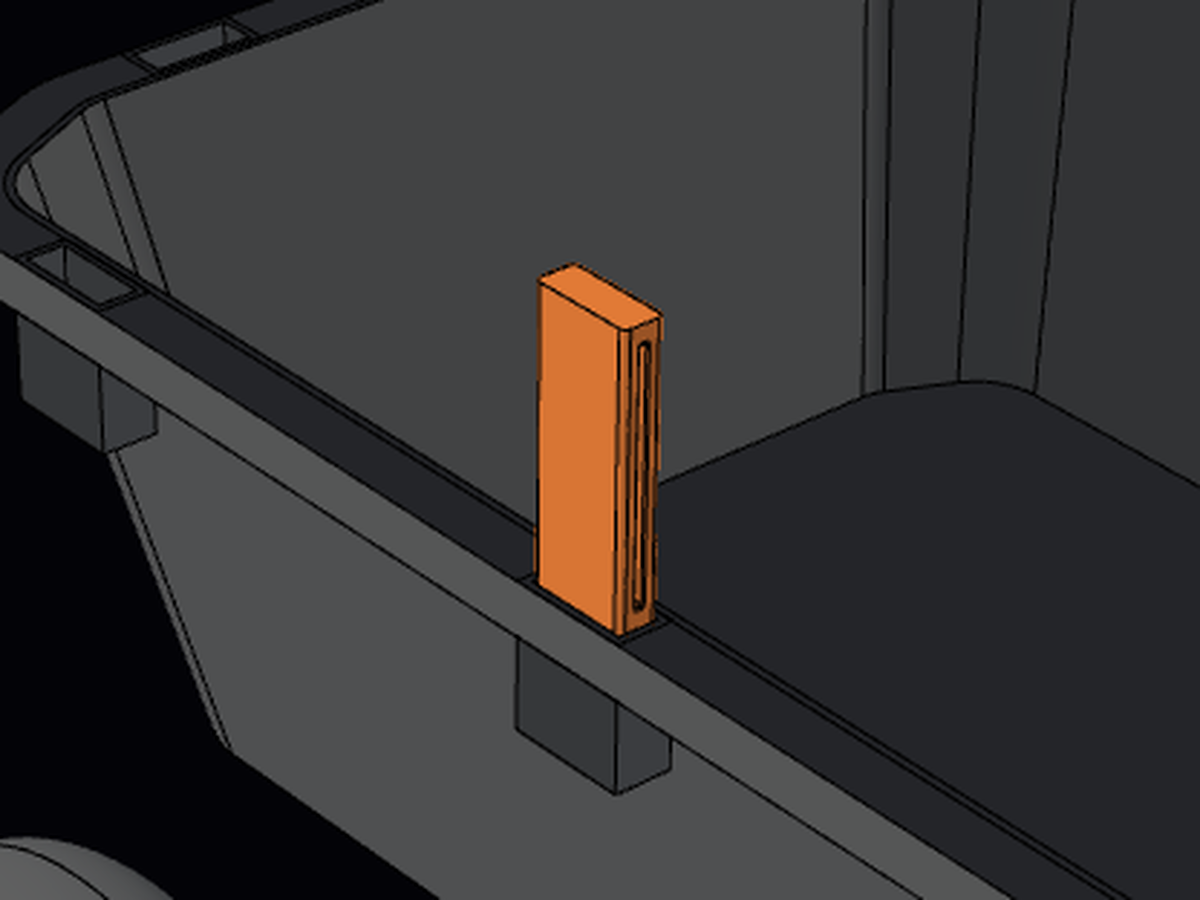
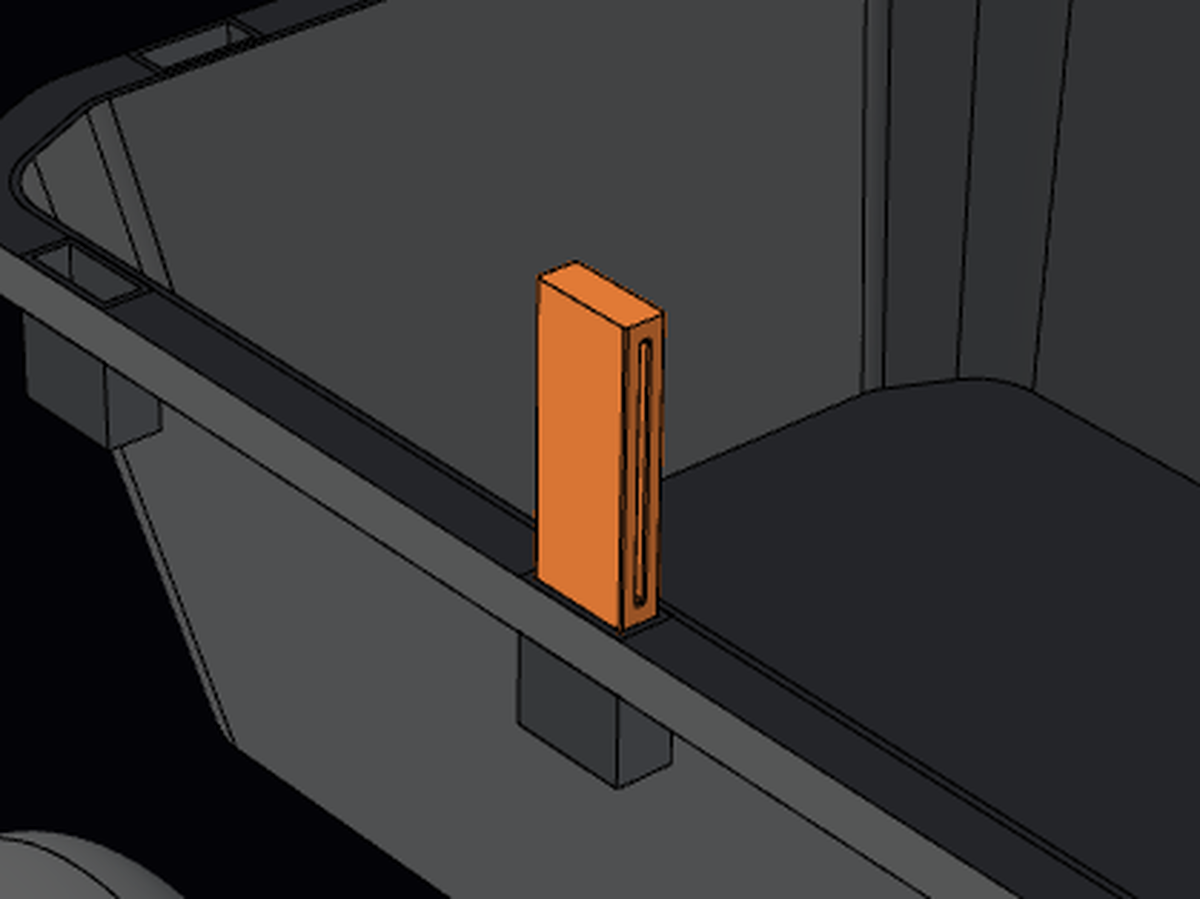
Replace the key's 3 mm edge fillets with 1 mm chamfers for printing on its side

diff --git a/src/key.ts b/src/key.ts
@@ -1,25 +1,30 @@
 /**
- * The key: the rounded bar every accessory is built on. Its bottom drops into a
- * rim cutout; what stands above the rim carries the accessory.
+ * The key: the bar every accessory is built on. Its bottom drops into a rim
+ * cutout; what stands above the rim carries the accessory.
  *
  * Units: millimetres. Z is up; the bar stands on the print bed at z = 0, which
  * is also the floor of the cutout once fitted. Centred on the origin in X/Y.
  * X is across the rim (cutout width), Y along it (cutout length).
  */
-import { box, edgeFinder, fillet, unwrap, type ValidSolid } from 'brepjs';
+import { box, chamfer, edgeFinder, unwrap, type ValidSolid } from 'brepjs';
 
 import { plug } from './cart.js';
 
-/** Fillet on the four upright edges. Top and bottom faces stay flat. */
-export const keyCornerRadius = 3;
+/**
+ * 45° chamfer on the four upright edges. Top and bottom faces stay flat. A
+ * chamfer rather than a fillet so a key printed lying on its side, as the
+ * tie-down block is, has a 45° slope at the bed instead of an overhanging
+ * curve.
+ */
+export const keyChamfer = 1;
 
-/** Cross-section area of the bar, fillets included. */
-export const keySectionArea = plug.x * plug.y - (4 - Math.PI) * keyCornerRadius ** 2;
+/** Cross-section area of the bar, chamfers included. */
+export const keySectionArea = plug.x * plug.y - 2 * keyChamfer ** 2;
 
 export function key(height: number): ValidSolid {
   const blank = box(plug.x, plug.y, height, { centered: true, at: [0, 0, height / 2] });
 
   // On a plain box `inDirection('Z')` matches exactly the four upright edges, so
-  // round them before anything else is cut or joined on.
-  return unwrap(fillet(blank, edgeFinder().inDirection('Z'), keyCornerRadius));
+  // break them before anything else is cut or joined on.
+  return unwrap(chamfer(blank, edgeFinder().inDirection('Z'), keyChamfer));
 }

diff --git a/src/machete-sleeve.brep.ts b/src/machete-sleeve.brep.ts
@@ -110,9 +110,9 @@ export default function macheteSleeve(): ValidSolid {
 // Declared intent — asserted by `brep verify --check`
 // ---------------------------------------------------------------------------
 
-// The fillets and the slot remove material without moving the extents, so the
+// The chamfers and the slot remove material without moving the extents, so the
 // bounding box is the plug section by the full height. The volume is the
-// filleted bar, less the stadium slot across the full 51mm, less the chamfer
+// chamfered bar, less the stadium slot across the full 51mm, less the chamfer
 // round each mouth: a c²/2 triangle along each straight side, and the same
 // triangle swept round the two half-circle ends (Pappus, its centroid c/3
 // out from the arc).

diff --git a/docs/pole-holder.md b/docs/pole-holder.md
@@ -14,7 +14,7 @@ For a different pole, change `poleDiameter`. For a taller or shorter stand, chan
 
 ## Printing
 
-Print it standing, as it sits in the cart, on the bottom of the key. The clip's side lines flare out at about 27° from vertical, and the bore prints as an open-topped channel, so neither needs support. Where the clip's square bottom corners meet the bar's rounded corners they overhang by up to 1.2 mm, which prints as a small ledge.
+Print it standing, as it sits in the cart, on the bottom of the key. The clip's side lines flare out at about 27° from vertical, and the bore prints as an open-topped channel, so neither needs support. Where the clip's square bottom corners sit over the bar's chamfered corners they overhang by a 1 × 1 mm triangle, which prints as a small ledge.
 
 ## Fitting
 
@@ -22,7 +22,7 @@ Fit two holders in neighbouring cutouts on the same side, 330.7 mm apart, with t
 
 ## Dimensions
 
-![The pole tool holder: a rounded bar with a U-shaped snap clip on top](../media/pole-holder.png)
+![The pole tool holder: a bar with a U-shaped snap clip on top](../media/pole-holder.png)
 
 | | |
 |---|---|
@@ -37,4 +37,4 @@ Fit two holders in neighbouring cutouts on the same side, 330.7 mm apart, with t
 
 ## Design notes
 
-The clip is a plain extrusion, so its four bottom corners are square where they meet the bar's 3 mm rounded corners. A 3 mm fillet to blend them doesn't work: OCCT carries it up the outer arc to the top lips.
+The clip is a plain extrusion, so its four bottom corners are square over the bar's 1 mm chamfered corners. Blending them with a 3 mm fillet doesn't work: OCCT carries it up the outer arc to the top lips.

diff --git a/docs/tie-down-block.md b/docs/tie-down-block.md
@@ -12,7 +12,7 @@ One block per cutout, as many as you need. The render shows two. Source: [src/ti
 
 ## Printing
 
-Print it lying on one broad face. Both faces are flat, so the holes print upright and nothing needs support. Lying down, the layers also run the length of the key, which is stronger when a strap pulls sideways on the head.
+Print it lying on one broad face. Both faces are flat, so the holes print upright and nothing needs support. The key's 1 mm chamfered edges rise from the bed at 45°. Lying down, the layers also run the length of the key, which is stronger when a strap pulls sideways on the head.
 
 ## Fitting
 

diff --git a/docs/cart.md b/docs/cart.md
@@ -27,4 +27,4 @@ These facts live in code in [src/cart.ts](../src/cart.ts), which every accessory
 
 ## The key
 
-Every accessory is built on the same key: a 19.2 × 51.0 mm bar with 3 mm fillets on its four upright edges, whose bottom 63.5 mm drops into a cutout ([src/key.ts](../src/key.ts)). The accessory is whatever stands above the rim.
+Every accessory is built on the same key: a 19.2 × 51.0 mm bar with 1 mm 45° chamfers on its four upright edges, whose bottom 63.5 mm drops into a cutout ([src/key.ts](../src/key.ts)). The accessory is whatever stands above the rim.

diff --git a/docs/machete-sleeve.md b/docs/machete-sleeve.md
@@ -22,7 +22,7 @@ Drop the key into any cutout. Slide the blade through the slot along the rim, cu
 
 ## Dimensions
 
-![The machete sleeve: a tall rounded bar with a narrow slot through its upper part](../media/machete-sleeve.png)
+![The machete sleeve: a tall bar with a narrow slot through its upper part](../media/machete-sleeve.png)
 
 | | |
 |---|---|
